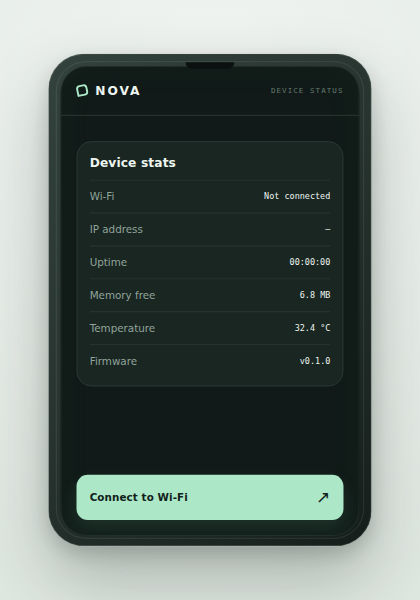
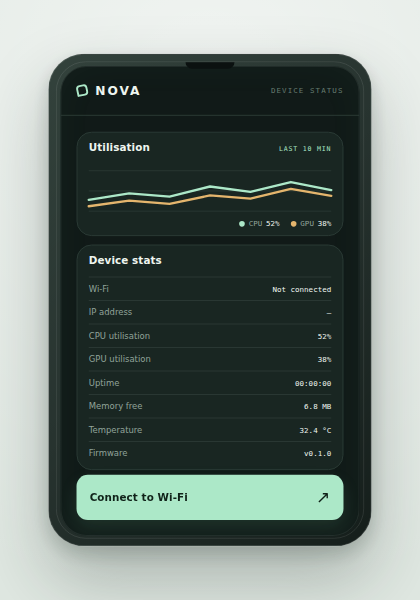
feat(ui-preview): add cpu gpu telemetry chart

diff --git a/tools/ui-preview/app.js b/tools/ui-preview/app.js
@@ -1,6 +1,10 @@
 (() => {
   "use strict";
 
+  const CHART_WIDTH = 288;
+  const CHART_TOP = 8;
+  const CHART_HEIGHT = 48;
+  const UTILISATION_MAX = 100;
   const fixtures = window.NovaFixtures;
   const elements = {};
   const state = {
@@ -15,10 +19,17 @@
     const ids = [
       "wifi-value",
       "ip-value",
+      "cpu-value",
+      "gpu-value",
       "uptime-value",
       "memory-value",
       "temperature-value",
       "firmware-value",
+      "utilisation-chart",
+      "cpu-line",
+      "gpu-line",
+      "cpu-current",
+      "gpu-current",
       "wifi-action",
       "wifi-sheet",
       "wifi-close",
@@ -39,10 +50,35 @@
     const stats = state.connected ? fixtures.stats.connected : fixtures.stats.disconnected;
     elements["wifi-value"].textContent = state.connected ? state.connectedNetwork : stats.wifi;
     elements["ip-value"].textContent = stats.ipAddress;
+    elements["cpu-value"].textContent = stats.cpu;
+    elements["gpu-value"].textContent = stats.gpu;
     elements["uptime-value"].textContent = stats.uptime;
     elements["memory-value"].textContent = stats.memoryFree;
     elements["temperature-value"].textContent = stats.temperature;
     elements["firmware-value"].textContent = stats.firmware;
+  }
+
+  function chartPoints(values) {
+    const step = CHART_WIDTH / (values.length - 1);
+    return values
+      .map((value, index) => {
+        const x = index * step;
+        const y = CHART_TOP + ((UTILISATION_MAX - value) / UTILISATION_MAX) * CHART_HEIGHT;
+        return `${x.toFixed(1)},${y.toFixed(1)}`;
+      })
+      .join(" ");
+  }
+
+  function renderTelemetry() {
+    const stats = state.connected ? fixtures.stats.connected : fixtures.stats.disconnected;
+    elements["cpu-line"].setAttribute("points", chartPoints(fixtures.telemetry.cpu));
+    elements["gpu-line"].setAttribute("points", chartPoints(fixtures.telemetry.gpu));
+    elements["cpu-current"].textContent = stats.cpu;
+    elements["gpu-current"].textContent = stats.gpu;
+    elements["utilisation-chart"].setAttribute(
+      "aria-label",
+      `CPU utilisation ${stats.cpu}, GPU utilisation ${stats.gpu}, over the last ten minutes`,
+    );
   }
 
   function renderNetworks() {
@@ -72,6 +108,7 @@
 
   function render() {
     renderStats();
+    renderTelemetry();
     renderNetworks();
     renderSheet();
   }
@@ -114,6 +151,7 @@
     state.connectedNetwork = state.selectedNetwork;
     closeWifi();
     renderStats();
+    renderTelemetry();
   }
 
   function connectWifi(event) {

diff --git a/tools/ui-preview/styles.css b/tools/ui-preview/styles.css
@@ -10,6 +10,7 @@
   --muted: #91a49a;
   --faint: #667b70;
   --mint: #ace8c8;
+  --gold: #e4b56d;
   --font-sans: Inter, ui-sans-serif, system-ui, -apple-system, BlinkMacSystemFont, "Segoe UI", sans-serif;
   --font-mono: "SFMono-Regular", Consolas, "Liberation Mono", monospace;
 }
@@ -135,26 +136,106 @@ button {
 }
 
 .screen-content {
-  padding: 27px 17px 0;
+  padding: 17px 17px 0;
 }
 
+.telemetry-card,
 .stats-card {
-  padding: 15px 13px 9px;
   border: 1px solid var(--screen-line);
   border-radius: 16px;
   background: var(--screen-raised);
 }
 
+.telemetry-card {
+  padding: 10px 12px 8px;
+}
+
+.stats-card {
+  margin-top: 9px;
+  padding: 10px 12px 5px;
+}
+
 .section-heading {
   padding-bottom: 10px;
+  justify-content: space-between;
 }
 
 .section-heading h2 {
   margin: 0;
   color: var(--text);
-  font-size: 13px;
+  font-size: 11px;
   font-weight: 720;
   letter-spacing: 0.01em;
+}
+
+.section-heading span {
+  color: var(--mint);
+  font-family: var(--font-mono);
+  font-size: 7px;
+  letter-spacing: 0.12em;
+}
+
+.telemetry-chart {
+  display: block;
+  width: 100%;
+  height: 58px;
+  overflow: visible;
+}
+
+.chart-grid {
+  stroke: rgba(145, 164, 154, 0.16);
+  stroke-width: 1;
+}
+
+.chart-line {
+  fill: none;
+  stroke-linecap: round;
+  stroke-linejoin: round;
+  stroke-width: 2.5;
+  vector-effect: non-scaling-stroke;
+}
+
+.cpu-line {
+  stroke: var(--mint);
+}
+
+.gpu-line {
+  stroke: var(--gold);
+}
+
+.chart-legend {
+  display: flex;
+  justify-content: flex-end;
+  gap: 12px;
+  margin-top: 1px;
+  color: var(--muted);
+  font-family: var(--font-mono);
+  font-size: 8px;
+}
+
+.chart-legend span {
+  display: inline-flex;
+  align-items: center;
+  gap: 4px;
+}
+
+.chart-legend strong {
+  color: var(--text);
+  font-weight: 500;
+}
+
+.legend-dot {
+  width: 6px;
+  height: 6px;
+  border-radius: 50%;
+}
+
+.cpu-dot {
+  background: var(--mint);
+}
+
+.gpu-dot {
+  background: var(--gold);
 }
 
 .stats-list {
@@ -163,7 +244,7 @@ button {
 
 .stat-row {
   justify-content: space-between;
-  min-height: 35px;
+  min-height: 25px;
   border-top: 1px solid rgba(145, 164, 154, 0.14);
   gap: 12px;
 }
@@ -171,7 +252,7 @@ button {
 .stat-row dt,
 .stat-row dd {
   margin: 0;
-  font-size: 11px;
+  font-size: 9px;
 }
 
 .stat-row dt {
@@ -181,7 +262,7 @@ button {
 .stat-row dd {
   color: var(--text);
   font-family: var(--font-mono);
-  font-size: 9px;
+  font-size: 8px;
   text-align: right;
 }
 

diff --git a/tools/ui-preview/index.html b/tools/ui-preview/index.html
@@ -21,6 +21,30 @@
           </header>
 
           <div class="screen-content">
+            <section class="telemetry-card" aria-labelledby="telemetry-heading">
+              <div class="section-heading">
+                <h2 id="telemetry-heading">Utilisation</h2>
+                <span>LAST 10 MIN</span>
+              </div>
+              <svg
+                class="telemetry-chart"
+                id="utilisation-chart"
+                viewBox="0 0 288 64"
+                role="img"
+                aria-label="CPU and GPU utilisation over the last ten minutes"
+              >
+                <line class="chart-grid" x1="0" y1="8" x2="288" y2="8"></line>
+                <line class="chart-grid" x1="0" y1="32" x2="288" y2="32"></line>
+                <line class="chart-grid" x1="0" y1="56" x2="288" y2="56"></line>
+                <polyline class="chart-line cpu-line" id="cpu-line" points=""></polyline>
+                <polyline class="chart-line gpu-line" id="gpu-line" points=""></polyline>
+              </svg>
+              <div class="chart-legend" aria-hidden="true">
+                <span><i class="legend-dot cpu-dot"></i>CPU <strong id="cpu-current"></strong></span>
+                <span><i class="legend-dot gpu-dot"></i>GPU <strong id="gpu-current"></strong></span>
+              </div>
+            </section>
+
             <section class="stats-card" aria-labelledby="stats-heading">
               <div class="section-heading">
                 <h2 id="stats-heading">Device stats</h2>
@@ -33,6 +57,14 @@
                 <div class="stat-row">
                   <dt>IP address</dt>
                   <dd id="ip-value"></dd>
+                </div>
+                <div class="stat-row">
+                  <dt>CPU utilisation</dt>
+                  <dd id="cpu-value"></dd>
+                </div>
+                <div class="stat-row">
+                  <dt>GPU utilisation</dt>
+                  <dd id="gpu-value"></dd>
                 </div>
                 <div class="stat-row">
                   <dt>Uptime</dt>

diff --git a/tools/ui-preview/fixtures.js b/tools/ui-preview/fixtures.js
@@ -4,6 +4,8 @@
       disconnected: Object.freeze({
         wifi: "Not connected",
         ipAddress: "—",
+        cpu: "52%",
+        gpu: "38%",
         uptime: "00:00:00",
         memoryFree: "6.8 MB",
         temperature: "32.4 °C",
@@ -11,11 +13,17 @@
       }),
       connected: Object.freeze({
         ipAddress: "192.168.29.18",
+        cpu: "52%",
+        gpu: "38%",
         uptime: "02:14:08",
         memoryFree: "6.4 MB",
         temperature: "33.1 °C",
         firmware: "v0.1.0",
       }),
+    }),
+    telemetry: Object.freeze({
+      cpu: Object.freeze([28, 44, 36, 61, 48, 72, 52]),
+      gpu: Object.freeze([12, 26, 18, 39, 31, 55, 38]),
     }),
     networks: Object.freeze([
       Object.freeze({ ssid: "Nova-24G", signal: "Strong", secure: true }),

diff --git a/tools/ui-preview/README.md b/tools/ui-preview/README.md
@@ -4,7 +4,8 @@ This is a dependency-free browser preview for the 320 × 480 Nova terminal.
 It intentionally presents one focused product surface:
 
 - current device status and connection state;
-- a short list of live device stats; and
+- a short list of device stats, including CPU and GPU utilisation;
+- one compact CPU/GPU utilisation time series; and
 - one Wi-Fi connection action, with a minimal network/password sheet.
 
 There is no navigation, assistant, room control, diagnostics console, or
